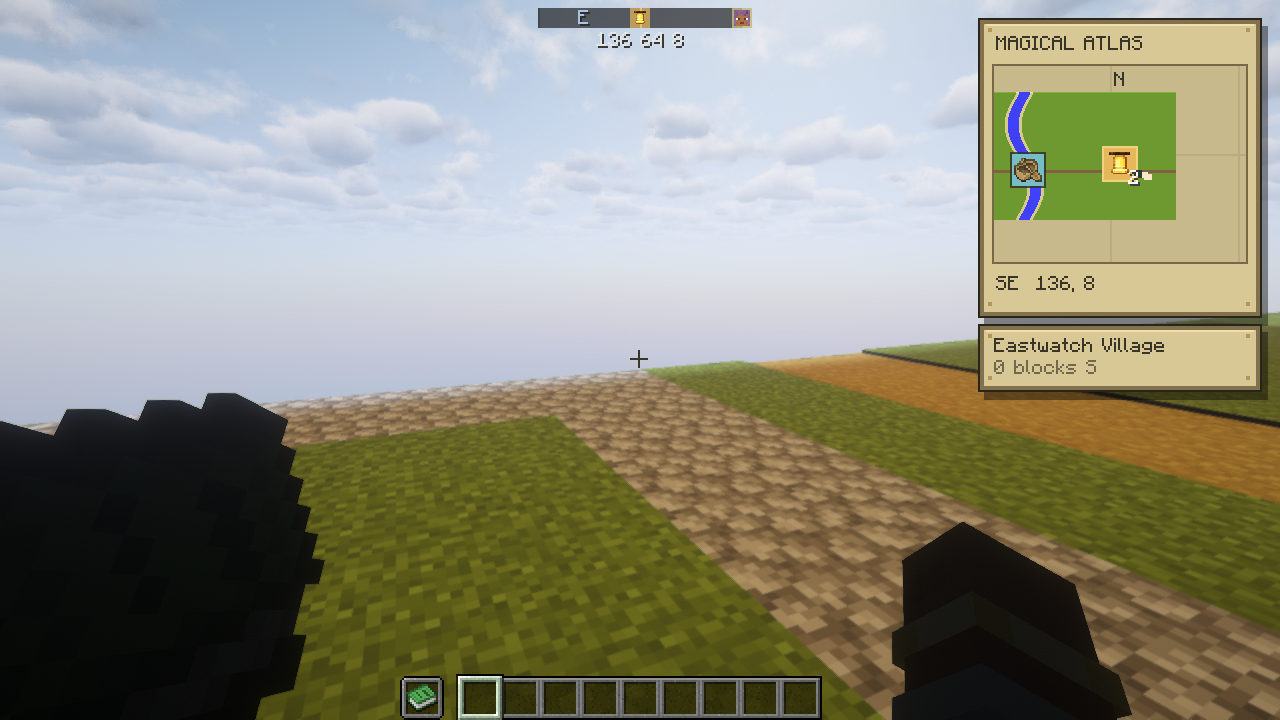
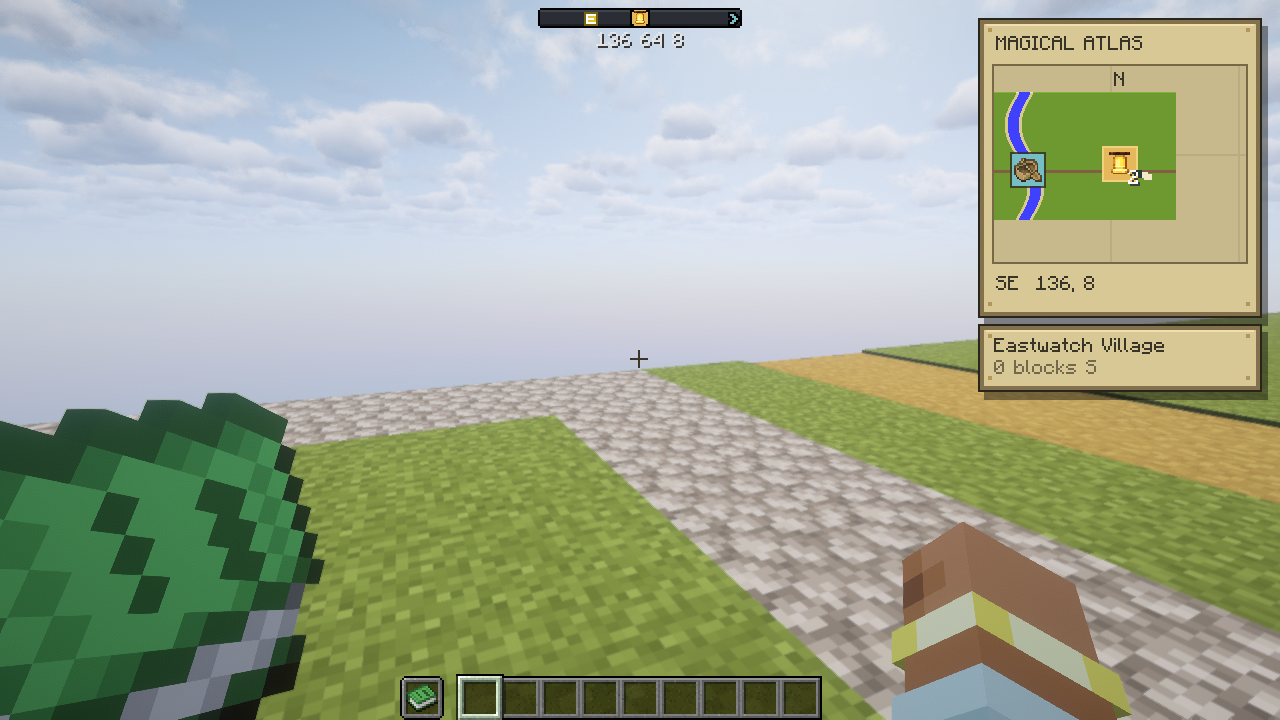
docs: reverify 0.3.0 against Azimuth's restyled bar
GameTests and the booth rerun with the restyled Azimuth 1.0.0 jar from mavenLocal; the bar
photo replaced. The rerun showed the village underfoot hidden under the ford's boat, which
was Azimuth drawing nearest first; fixed there. The jar is unchanged.

diff --git a/devtools/verification/release-0.3.0.md b/devtools/verification/release-0.3.0.md
@@ -22,10 +22,19 @@ Full `./gradlew clean build` on the release tree, Xephyr `:7`, llvmpipe, muted:
   `magicalmap:atlas/villagedeed:villages/minecraft:overworld/structure:8`, the two fixture
   landmarks, the booth's own landmark and `mobilecamp:camps/<owner>`; no `magicalmap:players`
   entry. The booth then faces west, where those lie 90 to 170 blocks off, and photographs the bar
-  ([bar](0.3.0/15-azimuth-bar.png), [arrival](0.3.0/08-arrival.png)): judged by eye at 4×, the two
-  landmark pickaxes, the ford's boat, the village bell and the Surveyor's head sit on the bar
-  over the coordinates, the atlas panel beside them. No "Atlas provider failed" or "Atlas
-  integration unavailable" line.
+  ([bar](0.3.0/15-azimuth-bar.png), [arrival](0.3.0/08-arrival.png)). No "Atlas provider failed"
+  or "Atlas integration unavailable" line.
+- Rerun the same day against Azimuth's restyled bar (its D-0003; jar sha1
+  `3fe4b3c300fc3c380d4eebc58b4fde0402ee659c` from mavenLocal): 20 GameTests passed again, the
+  booth COMPLETE with 37 checks twice, the photos above replaced. Judged by eye at 4x and 8x
+  under the shaders: the outlined bar with its highlight, the village bell over its dot on top
+  at the centre (the village is underfoot, which Azimuth draws dead ahead), the ford's boat over
+  its blue dot and the camp's campfire over its green dot peeking out to the bell's left (they
+  lie 4° and 7° left, 92 and 152 blocks off), the booth waypoint's pickaxe over its gold dot to
+  the right (7°, 131 blocks), and the Surveyor as Azimuth's small outlined far dot at 40 %
+  (144 blocks, past the fade's floor at 125) instead of a head; the iron mine's pickaxe (9° left,
+  164 blocks) is under the cluster. The first rerun showed the bell hidden under the boat: Azimuth
+  drew nearest first and so put the nearest underneath; it now draws farthest first.
 - Jar `magicalmap-0.3.0.jar` sha1 `4abff11db9cfe56d00c60296ffe998b9312d2cad` (119398 bytes); of
   Azimuth only the mod's own `integration/azimuth` classes inside, nothing of Azimuth, Village
   Deed, Thief or C.A.M.P.
@@ -33,10 +42,11 @@ Full `./gradlew clean build` on the release tree, Xephyr `:7`, llvmpipe, muted:
 The cartography-screen flake: the day's first two booth runs with Azimuth loaded never saw the
 `CartographyTableScreen` within phase 2's 20 s cap (the FAIL documented since 0.2.3). Phase 1 now
 logs the client's position, screen and the table block when it uses the table, and phase 2 logs
-the client's screen and the server's menu state at 10 s and 19 s. The next six runs, logged the
-same way, all opened the screen within two seconds of the peer's join, so the cause is not
-pinned; the next failure will carry the evidence.
+the client's screen and the server's menu state at 10 s and 19 s. The next eight runs (six, then
+the two reruns for the restyled bar), logged the same way, all opened the screen within two
+seconds of the peer's join, so the cause is not pinned; the next failure will carry the
+evidence.
 
 Not verified: the bar on the live server (Azimuth is unreleased; both ship together as pack
-1.62.0 on Rusty's go, with the Locator Bar's override jar dropped), and the look of the bar
-itself, which is Azimuth's (Rusty called it plain next to the Locator Bar; open in Azimuth).
+1.62.0 on Rusty's go, with the Locator Bar's override jar dropped). The jar is unchanged by the
+restyle: the look is Azimuth's, and only the photos here changed.

diff --git a/knowledge/PROJECT.md b/knowledge/PROJECT.md
@@ -88,7 +88,13 @@ own too (D-0007). The integration GameTest and the booth's new bar photo (`15-az
 the arrival the booth faces west, where the landmarks, the ford, the camp and the peer lie)
 verify it. The booth's phase 1 and 2 now log the client's position, screen and the server's
 menu state, for the cartography-screen flake (two of the day's first three runs never saw the
-screen within the 20 s cap; the next runs, logged the same way, all did).
+screen within the 20 s cap; the next runs, logged the same way, all did). Later the same day
+Azimuth's bar was restyled before its first release (Azimuth D-0003: outlined bar, badges,
+framed heads, dots under sprites, chevrons, far players as dots); the GameTests and the booth
+were rerun against the restyled jar and the bar photo replaced, the jar itself unchanged. That
+rerun found Azimuth drawing the nearest marker underneath (the village bell underfoot hidden
+by the ford's boat), fixed in Azimuth. Places clustered within 20° of each other overlap on a
+102-pixel bar; the nearest is on top.
 
 0.2.4 (2026-09-24): Village Deed 2.0.0 (Chunkworks, `com.chunkworks.villagedeed`) replaced
 nfx's 1.0.0 in pack 1.61.0 and the reflective bridge in `integration/OptionalLocations`
